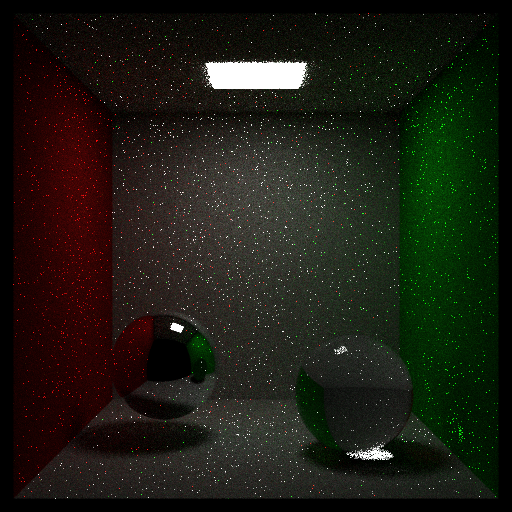
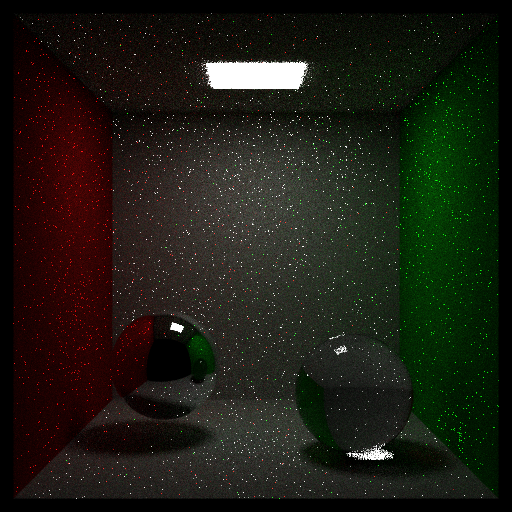
Correct fresnel equation is applied

diff --git a/src/core/fresnel.h b/src/core/fresnel.h
@@ -4,6 +4,21 @@
 
 namespace mypt {
 
+/** \note cos_i should be positive and checking if ray goes into 
+ *  dielectric surface (is cos_i negative?) is never performed in this function. */
+inline Float Fr(Float cos_i, Float ni, Float nt) {
+    Float sin_i = sqrt(fmax((Float)0, 1-cos_i*cos_i));
+    Float sin_t = ni / nt * sin_i;
+    Float cos_t = sqrt(fmax((Float)0, 1-sin_t*sin_t));
+
+    Float r_parl = ((nt * cos_i) - (ni * cos_t)) / 
+                   ((nt * cos_i) + (ni * cos_t));
+    Float r_perp = ((ni * cos_i) - (nt * cos_t)) / 
+                   ((ni * cos_i) + (nt * cos_t));
+
+    return (Float)0.5 * (r_parl*r_parl + r_perp*r_perp);
+}
+
 inline Float fresnel_reflectance(Float cosine, Float f0) {
     return f0 + (1-f0)*pow((1-cosine),5);
 }

diff --git a/src/material/metal.cpp b/src/material/metal.cpp
@@ -6,7 +6,9 @@ namespace mypt {
 bool Metal::scatter(
     const Ray& r_in, SurfaceInteraction& si
 ) const {
-    vec3 reflected = reflect(normalize(r_in.direction()), si.n);
+    auto wi = normalize(r_in.direction());
+
+    auto reflected = reflect(wi, si.n);
     si.scattered = Ray(si.p, reflected+fuzz*random_in_unit_sphere(), r_in.time());
     si.attenuation = albedo;
     si.is_specular = true;

diff --git a/src/material/dielectric.cpp b/src/material/dielectric.cpp
@@ -25,7 +25,7 @@ bool Dielectric::scatter(
     Float sine = sqrt(1.0 - cosine*cosine);
     bool cannot_refract = (ni / nt) * sine > 1.0;
 
-    Float reflect_prob = fresnel_dielectric(cosine, nt / ni);
+    Float reflect_prob = Fr(cosine, ni, nt);
     if (cannot_refract || reflect_prob > random_float())
         si.scattered = Ray(si.p, reflect(wi, outward_normal));
     else

diff --git a/src/material/lambertian.cpp b/src/material/lambertian.cpp
@@ -10,7 +10,6 @@ bool Lambertian::scatter(
     si.is_specular = false;
     si.attenuation = albedo->value(si.uv, si.p);
     si.pdf_ptr = std::make_shared<CosinePDF>(si.n);
-    // rec.p += rec.normal * eps;
     return true;
 }
 
